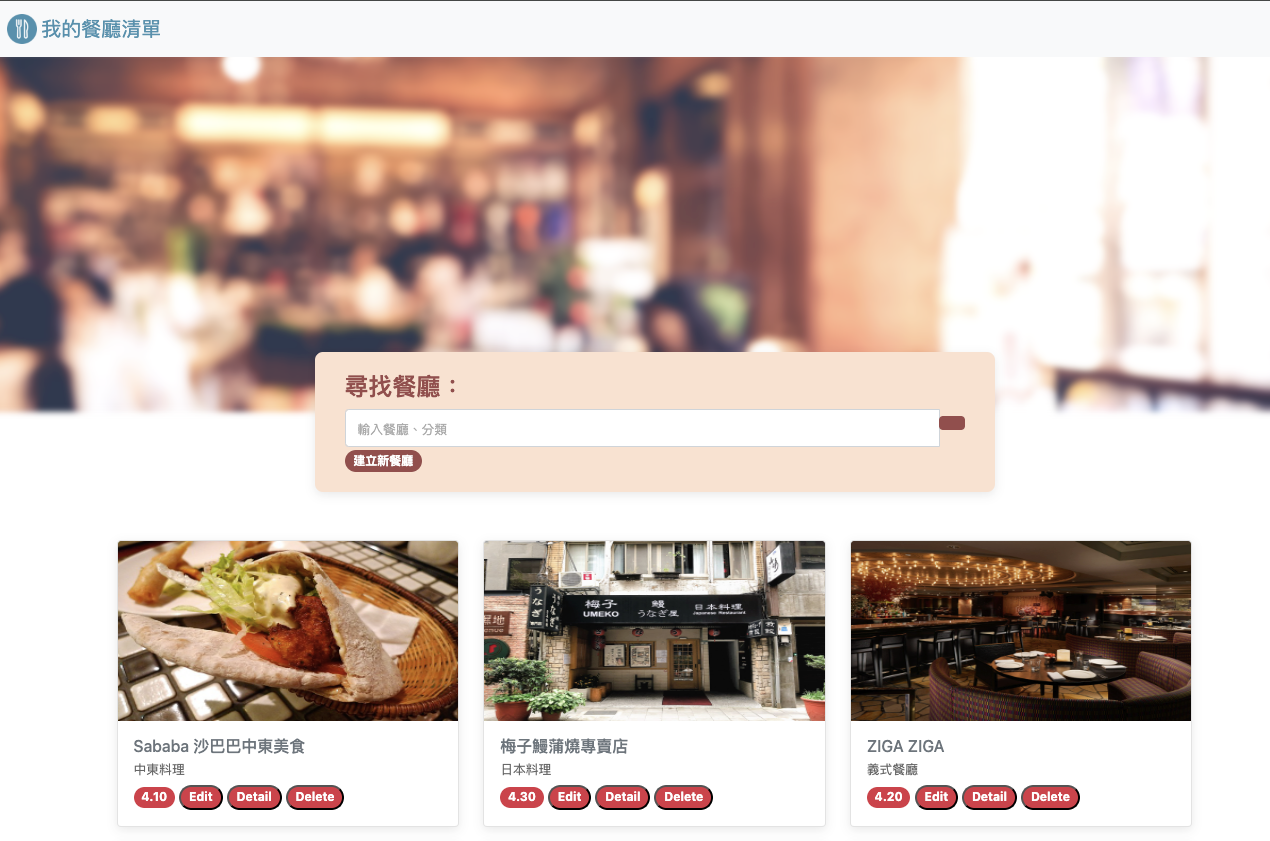
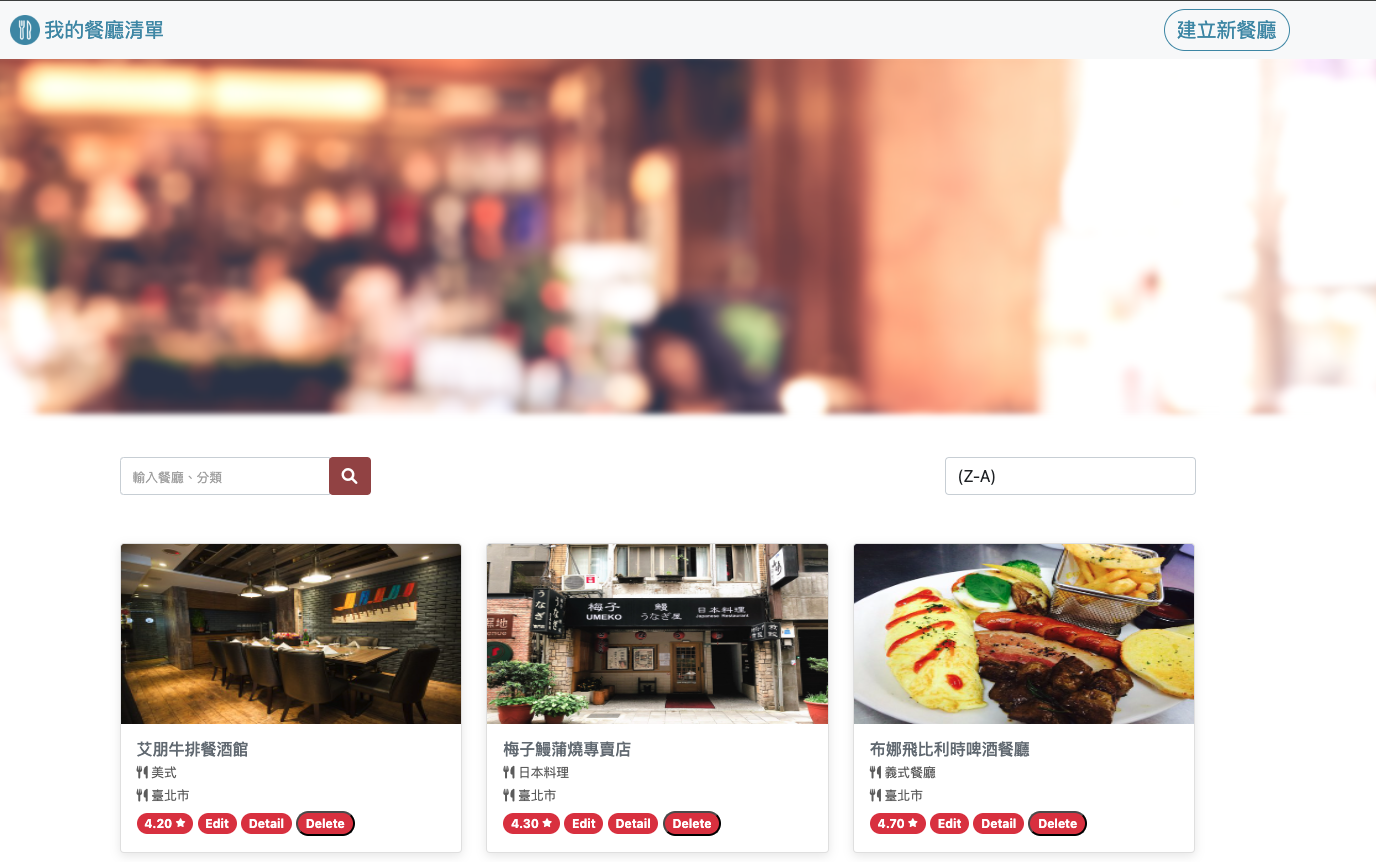
update the the readme and the referred pictures

diff --git a/README.md b/README.md
@@ -1,14 +1,26 @@
 # 我的餐廳清單
 
-這個專案是 AlphaCamp 全端網頁課程，C4 成為軟體工程師 - 後端專修， M1 章節的實作作業。主要是透過 Node.js、Express 框架，練習一個簡易的餐廳清單應用程式（Web Applicaton）。
+這個專案是 AlphaCamp 全端網頁課程，C4 成為軟體工程師 - 後端專修， M1 + M2 章節的實作作業。主要是透過 Node.js、Express 框架，練習一個簡易的餐廳清單應用程式（Web Applicaton）。
 
-主要功能有：餐廳清單的瀏覽、餐廳細部介紹，以及透過搜尋功能（餐廳名稱或類別），來找到符合條件的餐廳。另外使用者可以自行新增、修改、刪除特定的餐廳資料。
+主要功能有：
 
-- ![Feature_Creating](./public/images/Feature_Creating.png)
-- ![Feature_Reading1](./public/images/Feature_Reading1.png)
-- ![Feature_Reading2](./public/images/Feature_Reading2.png)
-- ![Feature_Searching](./public/images/Feature_Searching.png)
-- ![Feature_Updating](./public/images/Feature_Updating.png)
+- 餐廳清單的瀏覽、餐廳細部介紹；使用者也可以自行新增、更新、刪除特定的餐廳資料。
+- 使用者可以透過搜尋功能（餐廳名稱或類別），來找到符合條件的餐廳。
+- 使用者可以透過排序，包含餐廳名稱、餐廳類別、餐廳所在地區，讓餐廳清單依照自己的偏好呈現。
+
+
+- 建立新餐廳 
+![Feature_Creating](./public/images/Feature_Creating.png)
+- 瀏覽餐廳清單
+![Feature_Reading1](./public/images/Feature_Reading1.png)
+- 瀏覽餐廳細部介紹
+![Feature_Reading2](./public/images/Feature_Reading2.png)
+- 搜尋功能（餐廳名稱或類別）
+![Feature_Searching](./public/images/Feature_Searching.png)
+- 更新餐廳資訊
+![Feature_Updating](./public/images/Feature_Updating.png)
+- 依照餐廳類別排序
+![Feature_Sorting](./public/images/Feature_Sorting.png)
 
 ## Getting Started
 
